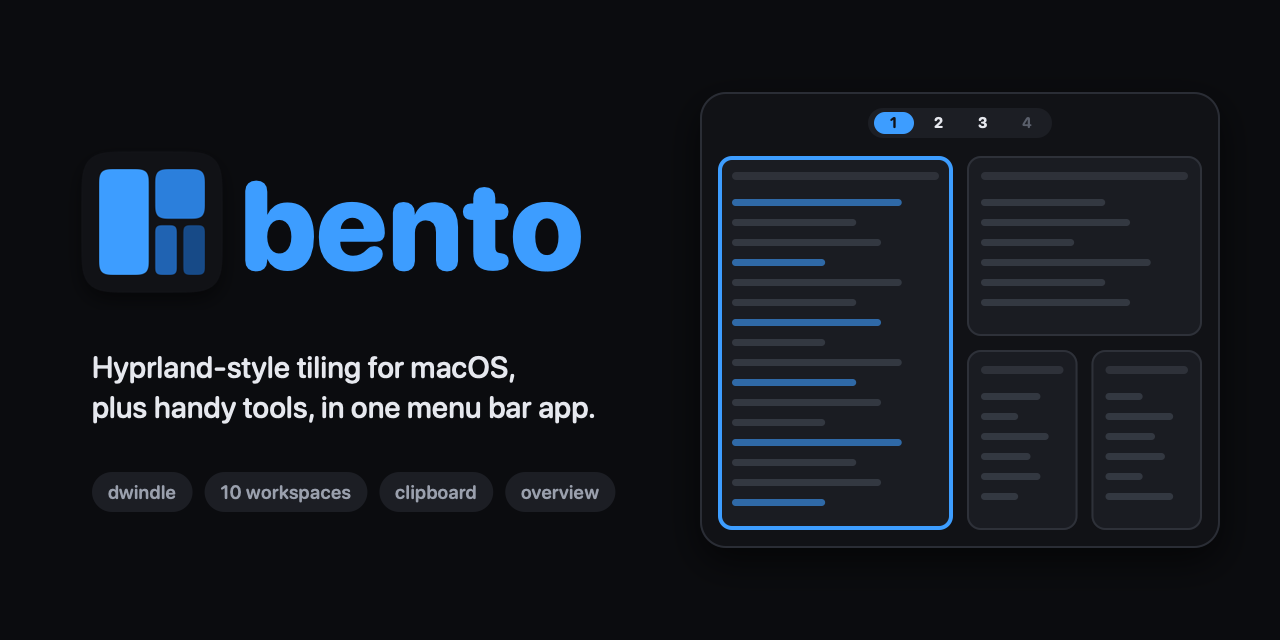
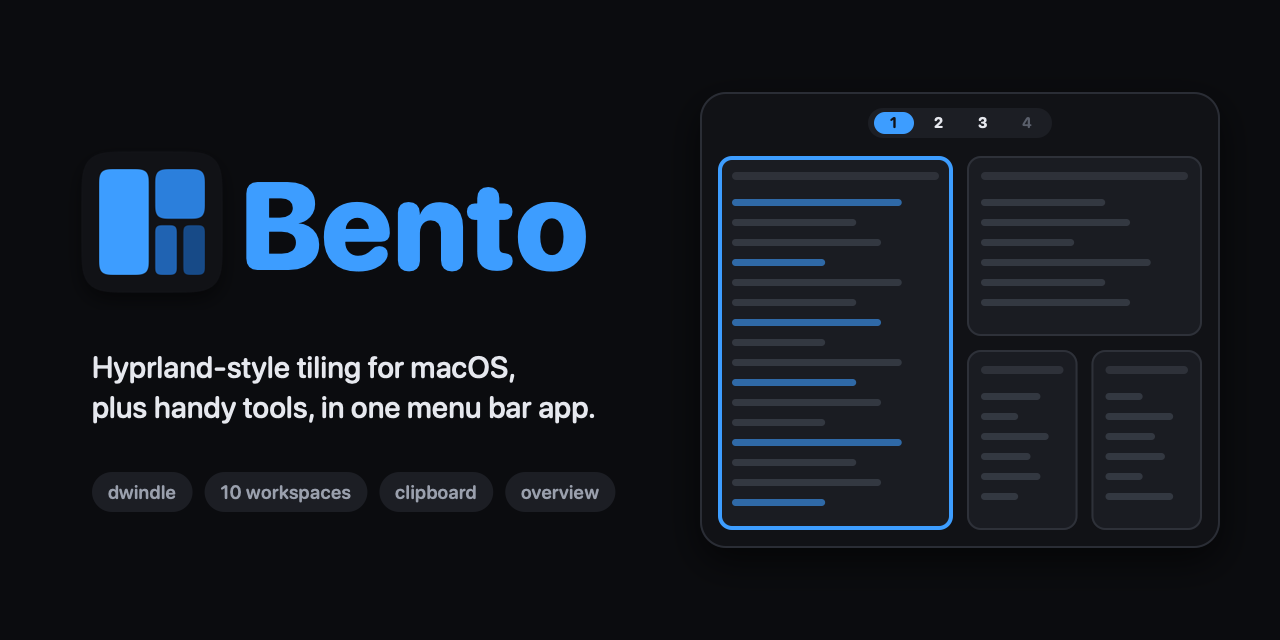
chore: capitalize the Bento name, keep Launch at Login only in Settings, drop the square shadow behind panels

Changed region(s): [[0.1875, 0.2812, 0.4688, 0.4375]]

diff --git a/Sources/bento/AppDelegate.swift b/Sources/bento/AppDelegate.swift
@@ -469,16 +469,13 @@ final class AppDelegate: NSObject, NSApplicationDelegate, NSMenuDelegate {
         menu.addItem(.separator())
         menu.addItem(item(isPaused ? "Resume Tiling" : "Pause Tiling", #selector(togglePause),
                             symbol: isPaused ? "play.circle" : "pause.circle"))
-        let login = item("Launch at Login", #selector(toggleLaunchAtLogin), symbol: "power")
-        login.state = SMAppService.mainApp.status == .enabled ? .on : .off
-        menu.addItem(login)
         let awake = item("Keep Awake", #selector(toggleKeepAwake), symbol: "cup.and.saucer")
         awake.state = keepAwake.isOn ? .on : .off
         menu.addItem(awake)
         menu.addItem(item("Clipboard History…", #selector(showClipboardHistory), symbol: "list.clipboard"))
         menu.addItem(item("Clear Clipboard History", #selector(clearClipboard), symbol: "clipboard"))
         menu.addItem(.separator())
-        menu.addItem(item("Quit bento", #selector(quit), key: "q", symbol: "xmark.circle"))
+        menu.addItem(item("Quit Bento", #selector(quit), key: "q", symbol: "xmark.circle"))
         menu.delegate = self
         statusItem?.menu = menu
     }
@@ -631,7 +628,7 @@ final class AppDelegate: NSObject, NSApplicationDelegate, NSMenuDelegate {
             return true
         }
         image.isTemplate = true
-        image.accessibilityDescription = awake ? "bento, Keep Awake on" : "bento"
+        image.accessibilityDescription = awake ? "Bento, Keep Awake on" : "Bento"
         return image
     }
 
@@ -676,7 +673,7 @@ final class AppDelegate: NSObject, NSApplicationDelegate, NSMenuDelegate {
         guard !conflicts.isEmpty else { return }
         let alert = NSAlert()
         alert.messageText = "Another window manager is running"
-        alert.informativeText = "\(Set(conflicts).sorted().joined(separator: ", ")) will fight with bento over window positions. Quit it and relaunch bento."
+        alert.informativeText = "\(Set(conflicts).sorted().joined(separator: ", ")) will fight with Bento over window positions. Quit it and relaunch Bento."
         alert.runModal()
     }
 

diff --git a/Sources/bento/Settings/SettingsViews.swift b/Sources/bento/Settings/SettingsViews.swift
@@ -104,15 +104,15 @@ private struct PermissionSection: View {
 
     private var purpose: String {
         switch permission {
-        case .accessibility: "Lets bento move and resize windows of other apps and react to its shortcuts."
-        case .screenRecording: "Lets bento take pictures of windows for animations and overview thumbnails."
+        case .accessibility: "Lets Bento move and resize windows of other apps and react to its shortcuts."
+        case .screenRecording: "Lets Bento take pictures of windows for animations and overview thumbnails."
         }
     }
 
     private var afterGranting: String {
         switch permission {
         case .accessibility: "Tiling starts on its own once granted."
-        case .screenRecording: "Restart bento after granting it."
+        case .screenRecording: "Restart Bento after granting it."
         }
     }
 }
@@ -123,7 +123,7 @@ private struct AboutTab: View {
     var body: some View {
         VStack(spacing: 8) {
             Image(nsImage: NSApp.applicationIconImage).resizable().frame(width: 96, height: 96)
-            Text("bento").font(.title.bold())
+            Text("Bento").font(.title.bold())
             Text("Tiling window manager for macOS").foregroundStyle(.secondary)
             if let version {
                 Text("Version \(version)").font(.caption).foregroundStyle(.tertiary)
@@ -429,7 +429,7 @@ private struct ClipboardTab: View {
                 }
             }
             Section("Keep Awake") {
-                FlagRow(title: "Turn on Keep Awake when bento starts", key: "clipboard:keep_awake_on_launch", model: model,
+                FlagRow(title: "Turn on Keep Awake when Bento starts", key: "clipboard:keep_awake_on_launch", model: model,
                         fallback: d.keepAwakeOnLaunch)
             }
         }

diff --git a/docs/cheatsheet.html b/docs/cheatsheet.html
@@ -3,7 +3,7 @@
 <head>
 <meta charset="utf-8">
 <meta name="viewport" content="width=device-width, initial-scale=1">
-<title>bento cheatsheet</title>
+<title>Bento cheatsheet</title>
 <link rel="icon" href="icon.png">
 <style>
   :root { --bg:#1e1e2e; --card:#313244; --text:#cdd6f4; --dim:#a6adc8; --pink:#f5c2e7; --mauve:#cba6f7; --blue:#89b4fa; }
@@ -24,7 +24,7 @@
 </style>
 </head>
 <body>
-<h1><img src="icon.png" alt="" width="28" height="28"> bento</h1>
+<h1><img src="icon.png" alt="" width="28" height="28"> Bento</h1>
 <div class="sub">mod = <kbd>ctrl</kbd> <kbd>⌥</kbd></div>
 
 <h2>Windows</h2>
@@ -59,14 +59,14 @@ windowrule = float, app:^Calculator$</pre>
 
 <h2>When something doesn’t work</h2>
 <ul>
-<li>“No permissions” even though they are on in System Settings → quit bento and run:</li>
+<li>“No permissions” even though they are on in System Settings → quit Bento and run:</li>
 </ul>
 <pre>tccutil reset Accessibility pl.amadeusz.bento
 tccutil reset ScreenCapture pl.amadeusz.bento
 open build/bento.app</pre>
 <ul>
 <li>“Permissions lost” in the menu → grant the permissions, it resumes on its own.</li>
-<li>Windows disappeared → start bento (it restores parked windows).</li>
+<li>Windows disappeared → start Bento (it restores parked windows).</li>
 <li>Don’t rebuild while it’s running; create the <code>bento-dev</code> certificate.</li>
 </ul>
 </body>

diff --git a/Sources/bento/Render/CommandPalettePanel.swift b/Sources/bento/Render/CommandPalettePanel.swift
@@ -21,7 +21,7 @@ final class CommandPalettePanel: NSObject, NSSearchFieldDelegate, NSWindowDelega
         self.run = run
         super.init()
         field.delegate = self
-        field.placeholderString = "Search bento commands"
+        field.placeholderString = "Search Bento commands"
         field.focusRingType = .none
         field.font = .systemFont(ofSize: 16)
         list.isOn = isOn
@@ -44,7 +44,7 @@ final class CommandPalettePanel: NSObject, NSSearchFieldDelegate, NSWindowDelega
         let panel = PaletteKeyPanel(contentRect: frame, styleMask: [.borderless, .nonactivatingPanel], backing: .buffered, defer: false)
         panel.isOpaque = false
         panel.backgroundColor = .clear
-        panel.hasShadow = true
+        panel.hasShadow = false
         panel.level = NSWindow.Level(rawValue: NSWindow.Level.statusBar.rawValue + 1)
         panel.collectionBehavior = [.canJoinAllSpaces, .transient, .ignoresCycle]
         panel.isReleasedWhenClosed = false

diff --git a/Sources/bento/Settings/SettingsWindow.swift b/Sources/bento/Settings/SettingsWindow.swift
@@ -34,7 +34,7 @@ final class SettingsWindow: NSObject, NSWindowDelegate {
             contentRect: NSRect(x: 0, y: 0, width: 640, height: 600),
             styleMask: [.titled, .closable, .miniaturizable, .resizable, .fullSizeContentView],
             backing: .buffered, defer: false)
-        window.title = "bento Settings"
+        window.title = "Bento Settings"
         window.titlebarAppearsTransparent = true
         window.titleVisibility = .hidden
         window.isOpaque = false
@@ -53,7 +53,7 @@ final class SettingsWindow: NSObject, NSWindowDelegate {
     private static func editMenu() -> NSMenu {
         let main = NSMenu()
         let app = NSMenuItem()
-        app.submenu = NSMenu(title: "bento")
+        app.submenu = NSMenu(title: "Bento")
         app.submenu?.addItem(withTitle: "Close Settings", action: #selector(NSWindow.performClose(_:)), keyEquivalent: "w")
         main.addItem(app)
         let edit = NSMenuItem()

diff --git a/Sources/BentoCore/Model/CommandPalette.swift b/Sources/BentoCore/Model/CommandPalette.swift
@@ -58,7 +58,7 @@ public func paletteCommands(binds: [KeyBind]) -> [PaletteCommand] {
         PaletteCommand(id: "app:keepAwake", title: "Keep Awake", symbol: "cup.and.saucer", target: .app(.keepAwake)),
         PaletteCommand(id: "app:launchAtLogin", title: "Launch at login", symbol: "power", target: .app(.launchAtLogin)),
         PaletteCommand(id: "app:clearClipboard", title: "Clear clipboard history", symbol: "clipboard", target: .app(.clearClipboard)),
-        PaletteCommand(id: "app:quit", title: "Quit bento", symbol: "xmark.circle", target: .app(.quit)),
+        PaletteCommand(id: "app:quit", title: "Quit Bento", symbol: "xmark.circle", target: .app(.quit)),
     ]
     var seen: Set<String> = []
     list = list.filter { seen.insert($0.id).inserted }

diff --git a/scripts/make-art.swift b/scripts/make-art.swift
@@ -101,7 +101,7 @@ func banner() -> CGImage {
         ctx.fill(CGRect(x: 0, y: 0, width: 1280, height: 640))
 
         ctx.draw(icon(256), in: CGRect(x: 64, y: 330, width: 176, height: 176))
-        text(ctx, "bento", roundedFont(124, .heavy), at: CGPoint(x: 240, y: 370), color: sky)
+        text(ctx, "Bento", roundedFont(124, .heavy), at: CGPoint(x: 240, y: 370), color: sky)
         text(ctx, "Hyprland-style tiling for macOS,", roundedFont(30, .medium), at: CGPoint(x: 92, y: 262), color: hex(0xe6e8ee))
         text(ctx, "plus handy tools, in one menu bar app.", roundedFont(30, .medium), at: CGPoint(x: 92, y: 222),
              color: hex(0xe6e8ee))

diff --git a/Tests/BentoCoreTests/CommandPaletteTests.swift b/Tests/BentoCoreTests/CommandPaletteTests.swift
@@ -21,7 +21,7 @@ private func ids(_ list: [PaletteCommand]) -> [String] { list.map(\.id) }
         }
         for t in ["Move workspace to other monitor", "Toggle split", "Toggle fullscreen", "Toggle floating", "Close window",
                   "Grow window", "Shrink window", "Window overview", "Clipboard history", "Settings…", "Pause tiling",
-                  "Keep Awake", "Launch at login", "Clear clipboard history", "Quit bento"] {
+                  "Keep Awake", "Launch at login", "Clear clipboard history", "Quit Bento"] {
             #expect(titles.contains(t), "\(t)")
         }
         #expect(!titles.contains("Reload config"))

diff --git a/Sources/bento/Render/ClipboardPanel.swift b/Sources/bento/Render/ClipboardPanel.swift
@@ -50,7 +50,7 @@ final class ClipboardPanel: NSObject, NSSearchFieldDelegate, NSWindowDelegate {
         let panel = ClipboardKeyPanel(contentRect: frame, styleMask: [.borderless, .nonactivatingPanel], backing: .buffered, defer: false)
         panel.isOpaque = false
         panel.backgroundColor = .clear
-        panel.hasShadow = true
+        panel.hasShadow = false
         panel.level = NSWindow.Level(rawValue: NSWindow.Level.statusBar.rawValue + 1)
         panel.collectionBehavior = [.canJoinAllSpaces, .transient, .ignoresCycle]
         panel.isReleasedWhenClosed = false

diff --git a/Sources/bento/KeepAwake.swift b/Sources/bento/KeepAwake.swift
@@ -15,7 +15,7 @@ final class KeepAwake {
         var id = IOPMAssertionID(0)
         let result = IOPMAssertionCreateWithName(
             kIOPMAssertionTypePreventUserIdleDisplaySleep as CFString,
-            IOPMAssertionLevel(kIOPMAssertionLevelOn), "bento Keep Awake" as CFString, &id)
+            IOPMAssertionLevel(kIOPMAssertionLevelOn), "Bento Keep Awake" as CFString, &id)
         if result == kIOReturnSuccess { assertion = id }
     }
 

diff --git a/docs/MANUAL-CHECKS.md b/docs/MANUAL-CHECKS.md
@@ -6,12 +6,12 @@ Checks to run by hand after granting permissions (see docs/SETUP.md).
 
 Put windows on workspaces 2 and 3 (ctrl-alt-shift-2 / -3), stay on workspace 1, then:
 
-- [ ] Quit bento from its menu: every window comes back on screen.
+- [ ] Quit Bento from its menu: every window comes back on screen.
 - [ ] Relaunch, park windows again, Pause Tiling: every window comes back on screen.
 - [ ] Relaunch, park windows again, `kill -TERM <pid>`: every window comes back on screen.
-- [ ] Relaunch, park windows again, `kill -9 <pid>`: the parked windows stay off-screen; launch bento again: every window comes back on screen.
+- [ ] Relaunch, park windows again, `kill -9 <pid>`: the parked windows stay off-screen; launch Bento again: every window comes back on screen.
 - [ ] Repeat all four with the external monitor connected (windows parked from both monitors).
-- [ ] With a busy or frozen app (e.g. IntelliJ indexing, or an app beachballing): bento hotkeys still react at once, and typing and clicking in other apps stays responsive.
+- [ ] With a busy or frozen app (e.g. IntelliJ indexing, or an app beachballing): Bento hotkeys still react at once, and typing and clicking in other apps stays responsive.
 
 ## Task 7
 
@@ -22,7 +22,7 @@ Put windows on workspaces 2 and 3 (ctrl-alt-shift-2 / -3), stay on workspace 1, 
 - [ ] With OmniWM (or Rectangle) running at launch, an alert names it.
 - [ ] Without Accessibility permission, no alert blocks the launch: Settings opens on Permissions (Accessibility "Not granted", Screen Recording as it is), the menu shows "Accessibility needed — tiling and shortcuts off" (clicking it opens Permissions), clipboard history keeps collecting, "Clipboard History…" opens the panel and picking an entry copies it without pasting; after granting, tiling starts within about 2 seconds, the menu item disappears and Permissions shows "Granted" within a second.
 - [ ] Without Screen Recording permission, the menu shows "Animations off (no Screen Recording)".
-- [ ] Launch at Login toggles the checkmark; Pause Tiling / Resume Tiling toggles the label.
+- [ ] The menu has no Launch at Login item; Pause Tiling / Resume Tiling toggles the label.
 
 ## Task 8
 
@@ -32,7 +32,7 @@ Put windows on workspaces 2 and 3 (ctrl-alt-shift-2 / -3), stay on workspace 1, 
 - [ ] Plug and unplug the external monitor: no window is lost (every window is still reachable on a visible screen).
 - [ ] `kill -9` the app with nothing parked, relaunch: the layout is rebuilt.
 - [ ] Put a tiled Ghostty window into native fullscreen: the other windows re-tile to fill its space. Leave fullscreen: it tiles again.
-- [ ] Launch bento while a window is in native fullscreen; leave fullscreen: the window joins the layout.
+- [ ] Launch Bento while a window is in native fullscreen; leave fullscreen: the window joins the layout.
 - [ ] Minimize a tiled window: the rest re-tile. Restore it from the Dock: it tiles again.
 
 ## Task 9
@@ -70,7 +70,7 @@ Put windows on workspaces 2 and 3 (ctrl-alt-shift-2 / -3), stay on workspace 1, 
 - [ ] One centered translucent island per monitor sits right under the macOS menu bar, showing 1–9 (one screen) or "0" on the MacBook and 1–9 on the external monitor.
 - [ ] The workspace shown on a monitor is a filled pink pill with dark text on that monitor's bar; the workspace shown on the other monitor has a purple outline; empty workspaces are dimmed, others are normal light text.
 - [ ] Switching workspaces with the hotkeys moves the highlights on both monitors' bars.
-- [ ] Clicking a number switches to that workspace without activating bento or stealing focus from the current app.
+- [ ] Clicking a number switches to that workspace without activating Bento or stealing focus from the current app.
 - [ ] Tiled windows never overlap the island; the island stays above other windows and appears on every Space, but not in Mission Control.
 - [ ] Save `bar { height = 40 }`: the island resizes without a relaunch and the tiling area adjusts; save `enabled = false`: the island disappears and tiling grows into the space; `enabled = true` brings it back.
 - [ ] Unplugging / replugging the external monitor removes / recreates its island; Pause Tiling hides the islands, Resume brings them back.
@@ -79,7 +79,7 @@ Put windows on workspaces 2 and 3 (ctrl-alt-shift-2 / -3), stay on workspace 1, 
 
 - [ ] Opening and closing windows animates the re-tiling smoothly at 120 Hz on the built-in display; a new window pops in (slightly scaled up and faded in), or, if it is too new to capture, fades in at the end. During the animation the final layout never shows through behind the moving snapshots (no full-size windows behind growing snapshots, no flickering slivers in the gaps).
 - [ ] Switching from an empty workspace to a populated one never shows the new windows at once: windows with a cached snapshot slide in, others fade in at the end; switching to a workspace for the first time after launch fades its windows in at the end.
-- [ ] The desktop (wallpaper, icons) and unmoved windows look unchanged during an animation; no bento border or bar is doubled in it.
+- [ ] The desktop (wallpaper, icons) and unmoved windows look unchanged during an animation; no Bento border or bar is doubled in it.
 - [ ] ctrl-alt-1 → ctrl-alt-2 slides left, back slides right; clicking a number on the bar slides the same way.
 - [ ] Mashing ctrl-alt-1/2 quickly never lags the keys or leaves an overlay behind; every window ends up at its final frame.
 - [ ] Borders disappear during a transition and come back (at the right frames and colors) when it ends; Pause Tiling in the middle of an animation, then Resume: borders are back.
@@ -90,10 +90,10 @@ Put windows on workspaces 2 and 3 (ctrl-alt-shift-2 / -3), stay on workspace 1, 
 
 ## Final review fixes
 
-- [ ] Close a Ghostty window while another Ghostty window is on a different workspace: bento stays on the current workspace (no jump), and the current workspace's next window gets focus and the active border.
+- [ ] Close a Ghostty window while another Ghostty window is on a different workspace: Bento stays on the current workspace (no jump), and the current workspace's next window gets focus and the active border.
 - [ ] Same with Cmd-Q of an app that has a window on another workspace, and with Cmd-H: no jump to another workspace.
-- [ ] Cmd-Tab (slowly, not right after closing a window) to an app whose window is on a hidden workspace: bento switches to that workspace.
-- [ ] Switch to an empty workspace and type: nothing reaches the previously focused (now parked) window; Finder (or, if Finder has windows, bento) is active.
+- [ ] Cmd-Tab (slowly, not right after closing a window) to an app whose window is on a hidden workspace: Bento switches to that workspace.
+- [ ] Switch to an empty workspace and type: nothing reaches the previously focused (now parked) window; Finder (or, if Finder has windows, Bento) is active.
 - [ ] Send the last window of a workspace to another workspace with ctrl-alt-shift-N and type: nothing reaches the sent window.
 - [ ] Close the focused tiled window: the next window on that workspace gets keyboard focus and the active border together.
 - [ ] Drag a tiled window by its title bar (no mod) and release: it snaps back into its tile. Resize a tiled window from its edge: it snaps back.
@@ -103,8 +103,8 @@ Put windows on workspaces 2 and 3 (ctrl-alt-shift-2 / -3), stay on workspace 1, 
 - [ ] Cmd-H an app with tiled windows: the rest re-tile with no hole; unhide it (Cmd-Tab or Dock): its windows tile again.
 - [ ] An app that starts slowly (its windows don't tile at launch) tiles once you activate it.
 - [ ] Break the config (`gaps_in = x`): each island grows a red "!" at its right end; hovering it shows "line N — message"; fixing the config removes it.
-- [ ] With bento running, turn bento off under Accessibility, then toggle `follow_mouse` in the config and save (this recreates the event tap, which now fails): the menu shows "Hotkeys unavailable — check Accessibility permission". Turn it back on and toggle `follow_mouse` again: the item disappears.
-- [ ] On first launch without Screen Recording, macOS prompts for it and bento appears in System Settings -> Privacy & Security -> Screen Recording; after granting and relaunching, animations run.
+- [ ] With Bento running, turn Bento off under Accessibility, then toggle `follow_mouse` in the config and save (this recreates the event tap, which now fails): the menu shows "Hotkeys unavailable — check Accessibility permission". Turn it back on and toggle `follow_mouse` again: the item disappears.
+- [ ] On first launch without Screen Recording, macOS prompts for it and Bento appears in System Settings -> Privacy & Security -> Screen Recording; after granting and relaunching, animations run.
 - [ ] mod+drag and mod+right-drag still move/resize windows; a mod+click on the empty desktop does nothing; plain clicks and drags still reach apps.
 - [ ] With `follow_mouse = 1`, focus still follows the mouse; toggling it in the config still takes effect without a relaunch.
 
@@ -164,9 +164,9 @@ Put windows on workspaces 2 and 3 (ctrl-alt-shift-2 / -3), stay on workspace 1, 
 
 ## Windows keep their workspaces across a restart
 
-- [ ] Spread windows over three workspaces (mod+shift+N), quit bento from the menu, start it again: every window is back on its workspace and the islands show the same icons as before.
-- [ ] Same after `kill <pid>` of bento, and after Pause / Resume in the menu.
-- [ ] Quit an app and reopen it while bento runs: its new window lands on the visible workspace (memory follows the window, not the app).
+- [ ] Spread windows over three workspaces (mod+shift+N), quit Bento from the menu, start it again: every window is back on its workspace and the islands show the same icons as before.
+- [ ] Same after `kill <pid>` of Bento, and after Pause / Resume in the menu.
+- [ ] Quit an app and reopen it while Bento runs: its new window lands on the visible workspace (memory follows the window, not the app).
 - [ ] `~/Library/Application Support/bento/workspaces.json` exists; `~/.config/bento/` gets no new files and the config is not reloaded on window moves.
 
 ## Windows return to their workspace after an app reloads them
@@ -199,9 +199,9 @@ Put windows on workspaces 2 and 3 (ctrl-alt-shift-2 / -3), stay on workspace 1, 
 - [ ] Typing filters the list (case does not matter); ↑/↓ move the highlight and stop at the first/last row; with more than 14 entries the list scrolls with the highlight.
 - [ ] Return closes the panel and pastes the highlighted text into the app you were in; the text is also on the clipboard (cmd+V pastes it again) and is now at the top of the history; its copy count in the preview did not grow.
 - [ ] Clicking a row pastes it the same way; Esc, shift+cmd+C again, or a click in another window close the panel without pasting.
-- [ ] A password copied from a password manager (1Password, Keychain Access "Copy Password") shows up as `••••••••` in the list and the preview, does not match a search for its text, pastes the real password, and is gone from the history after restarting bento (not in `clipboard.json`).
+- [ ] A password copied from a password manager (1Password, Keychain Access "Copy Password") shows up as `••••••••` in the list and the preview, does not match a search for its text, pastes the real password, and is gone from the history after restarting Bento (not in `clipboard.json`).
 - [ ] A token copied from a terminal (`ghp_…`, `sk-…`, a JWT) is masked the same way; an ordinary sentence is not.
-- [ ] Quit bento and start it again: the history is still there (`~/Library/Application Support/bento/clipboard.json`).
+- [ ] Quit Bento and start it again: the history is still there (`~/Library/Application Support/bento/clipboard.json`).
 - [ ] After Pause Tiling, shift+cmd+C does nothing (decision D2 A); after Resume it works again.
 - [ ] First start after the update: the history from the old version (plain texts) is still there, in the same order.
 - [ ] Each row shows the source app's icon, the text, how long ago it was copied ("now", "5m", "3h", "2d") and ⌘1–⌘9 on the first nine rows; the preview on the right shows the full text and App / First copied / Last copied / Copies; copying the same text again raises Copies and keeps First copied.
@@ -215,14 +215,14 @@ Put windows on workspaces 2 and 3 (ctrl-alt-shift-2 / -3), stay on workspace 1, 
 
 ## Keep Awake
 
-- [ ] Menu → Keep Awake: the item gets a ✓, the menu bar icon becomes a cup, `pmset -g assertions` lists `PreventUserIdleDisplaySleep` named "bento Keep Awake".
+- [ ] Menu → Keep Awake: the item gets a ✓, the menu bar icon becomes a cup, `pmset -g assertions` lists `PreventUserIdleDisplaySleep` named "Bento Keep Awake".
 - [ ] Menu → Keep Awake again: no ✓, grid icon back, the assertion is gone from `pmset -g assertions`.
-- [ ] With Keep Awake on, Quit bento and separately `kill <pid>` of bento: in both cases the assertion is gone afterwards.
+- [ ] With Keep Awake on, Quit Bento and separately `kill <pid>` of Bento: in both cases the assertion is gone afterwards.
 - [ ] With Keep Awake on, the screen does not dim or sleep after the display-sleep time from System Settings.
 
 ## Settings window
 
-- [ ] Menu → Settings… (or ⌘, with the menu open) opens a window on top with a glass background and tabs Appearance, Behavior, Shortcuts, Clipboard; bento shows in the Dock while it is open and disappears from it after closing; Settings… again brings the same window back.
+- [ ] Menu → Settings… (or ⌘, with the menu open) opens a window on top with a glass background and tabs Appearance, Behavior, Shortcuts, Clipboard; Bento shows in the Dock while it is open and disappears from it after closing; Settings… again brings the same window back.
 - [ ] Back up `~/.config/bento/bento.conf`; in Appearance move "Gap between windows": the tiles change within a second, and `diff` against the backup shows only the `gaps_in` line changed (comments and order intact).
 - [ ] Change a key the file does not have yet (e.g. island Padding off Auto): a new line appears inside `bar { }`; turning Auto back on removes it.
 - [ ] Island opacity slider from Glass to Solid makes the island tint go from clear to opaque; the Tint color picker changes its color.
@@ -230,10 +230,10 @@ Put windows on workspaces 2 and 3 (ctrl-alt-shift-2 / -3), stay on workspace 1, 
 - [ ] Permissions tab: each permission shows "Granted" / "Not granted" on the right of its name and a sentence on what it is for; "Open System Settings" opens Privacy & Security → Accessibility / Screen Recording; toggling it there changes the status within a second.
 - [ ] Menu → "Clipboard History…" opens the clipboard panel.
 - [ ] Every color row (focused/unfocused border, island colors) has a ↺ button, greyed out while the color is the default; after changing a color it lights up, and clicking it writes the default back into its line in `bento.conf` (e.g. `col.active_border = rgba(3d9dffff)`) and greys out again; with an invalid border value (text field) ↺ brings back the color picker.
-- [ ] Behavior toggles (focus follows mouse, cursor warp, animations) take effect without restarting; Launch at login matches the menu item.
+- [ ] Behavior toggles (focus follows mouse, cursor warp, animations) take effect without restarting; Launch at login matches System Settings → General → Login Items.
 - [ ] Shortcuts: click a shortcut and press ctrl+alt+← (already bound): it records instead of moving focus; pressing keys that include $mod saves them as `$mod …`; Esc cancels; changing the action and argument updates the line; − removes it; Add shortcut adds `bind = $mod, b, focusorlaunch, Safari` under the last bind.
 - [ ] Unticking/ticking modifiers under "Modifier ($mod)" rewrites the `$mod = …` line and every `$mod` shortcut follows.
-- [ ] Clipboard: lowering "Entries to keep" to 10 trims the history panel to 10 unpinned rows; "Turn on Keep Awake when bento starts" → quit and start bento: the cup icon is there and `pmset -g assertions` shows the bento assertion.
+- [ ] Clipboard: lowering "Entries to keep" to 10 trims the history panel to 10 unpinned rows; "Turn on Keep Awake when Bento starts" → quit and start Bento: the cup icon is there and `pmset -g assertions` shows the Bento assertion.
 - [ ] ⌘C, ⌘V, ⌘X and ⌘A work in the text fields; ⌘W closes the window.
 - [ ] Edit `bento.conf` by hand while the window is open: the window shows the new values; a syntax error shows a red line at the top of the window.
 - [ ] The clipboard history panel (shift+cmd+C) has the same glass look.
@@ -241,7 +241,7 @@ Put windows on workspaces 2 and 3 (ctrl-alt-shift-2 / -3), stay on workspace 1, 
 
 ## Command palette
 
-- [ ] ctrl+alt+space ($mod+space) opens a glass panel a bit above the middle of the screen with the mouse; the app you were in keeps focus; the list shows every bento command with an icon and its shortcut on the right (e.g. "Go to workspace 3  ⌃⌥3").
+- [ ] ctrl+alt+space ($mod+space) opens a glass panel a bit above the middle of the screen with the mouse; the app you were in keeps focus; the list shows every Bento command with an icon and its shortcut on the right (e.g. "Go to workspace 3  ⌃⌥3").
 - [ ] Typing filters by letters in order: "mtw3" puts "Move window to workspace 3" first, "clip" puts "Clipboard history" first, "xyz" shows "No matching command".
 - [ ] ↑/↓ move the highlight, Return runs the command and closes the panel: "Go to workspace 3" switches the workspace, "Move window left" moves the focused window, "Window overview" opens the F3 overview, "Clipboard history" opens the clipboard panel, "Settings…" opens settings, "Keep Awake" toggles the cup icon (the row shows ✓ while it is on).
 - [ ] Your `exec` / `focusorlaunch` shortcuts from bento.conf appear as "Run: …" / "Open …" and work.

diff --git a/README.md b/README.md
@@ -1,6 +1,6 @@
-# bento
+# Bento
 
-![bento](docs/banner.png)
+![Bento](docs/banner.png)
 
 A set of macOS tools in a single menu bar app. The first module is a Hyprland-style tiling window manager: dwindle layout, 10 workspaces, gradient borders, a workspace island under the menu bar, animations, and configuration in Hyprland syntax that reloads on save.
 
@@ -29,12 +29,12 @@ A set of macOS tools in a single menu bar app. The first module is a Hyprland-st
    ```
 
 5. **Grant permissions** in System Settings → Privacy & Security:
-   - **Accessibility** — needed for tiling, shortcuts, the window overview, the command palette and pasting from clipboard history. Without it bento still runs: clipboard history (open it from the menu; picking an entry copies it), Keep Awake and Settings work. Tiling starts a few seconds after it is granted.
-   - **Screen Recording** (optional) — everything works without it, just without animations and overview thumbnails. After granting it, quit bento from its menu and start it again.
+   - **Accessibility** — needed for tiling, shortcuts, the window overview, the command palette and pasting from clipboard history. Without it Bento still runs: clipboard history (open it from the menu; picking an entry copies it), Keep Awake and Settings work. Tiling starts a few seconds after it is granted.
+   - **Screen Recording** (optional) — everything works without it, just without animations and overview thumbnails. After granting it, quit Bento from its menu and start it again.
 
    Settings → Permissions shows what is granted, what each permission is for, and opens the right System Settings pane.
 
-A grid icon appears in the menu bar. Its menu has: settings, config errors, pause, launch at login, and quit.
+A grid icon appears in the menu bar. Its menu has: settings, config errors, pause, and quit; Launch at Login is in Settings → Behavior.
 
 ## Shortcuts (mod = ctrl-alt)
 
@@ -60,7 +60,7 @@ A grid icon appears in the menu bar. Its menu has: settings, config errors, paus
 
 ## Keep Awake
 
-The "Keep Awake" item in the bento menu keeps the display and the system from sleeping (like `caffeinate -d`) until you turn it off or quit bento (or from launch: `clipboard:keep_awake_on_launch = true`). While it is on, the menu bar icon changes to a coffee cup.
+The "Keep Awake" item in the Bento menu keeps the display and the system from sleeping (like `caffeinate -d`) until you turn it off or quit Bento (or from launch: `clipboard:keep_awake_on_launch = true`). While it is on, the menu bar icon changes to a coffee cup.
 
 ## Two displays
 
@@ -74,12 +74,12 @@ An app's auxiliary windows — settings, "About", modal windows, fixed-size wind
 
 The file `~/.config/bento/bento.conf` is created on first launch. Changes take effect a second after saving; a syntax error with its line number shows up in the menu and as "!" on the island.
 
-bento menu → **Settings…** (⌘,) opens the settings window with the tabs Appearance (gaps, borders, island, island transparency), Behavior (focus follows mouse, cursor, animations, launch at login), Shortcuts (shortcut recording, actions, `$mod`) and Clipboard (history size, Keep Awake on launch). The window writes changes straight to `bento.conf` — it changes only the affected line, comments and manual edits are kept. Window rules (`windowrule`), mouse bindings (`bindm`) and detailed animations are still set in the file.
+Bento menu → **Settings…** (⌘,) opens the settings window with the tabs Appearance (gaps, borders, island, island transparency), Behavior (focus follows mouse, cursor, animations, launch at login), Shortcuts (shortcut recording, actions, `$mod`) and Clipboard (history size, Keep Awake on launch). The window writes changes straight to `bento.conf` — it changes only the affected line, comments and manual edits are kept. Window rules (`windowrule`), mouse bindings (`bindm`) and detailed animations are still set in the file.
 
 ```
 clipboard {
     history_size = 200            # 10–2000 entries, pinned ones don't count
-    keep_awake_on_launch = false  # Keep Awake on from bento launch
+    keep_awake_on_launch = false  # Keep Awake on from Bento launch
 }
 ```
 
